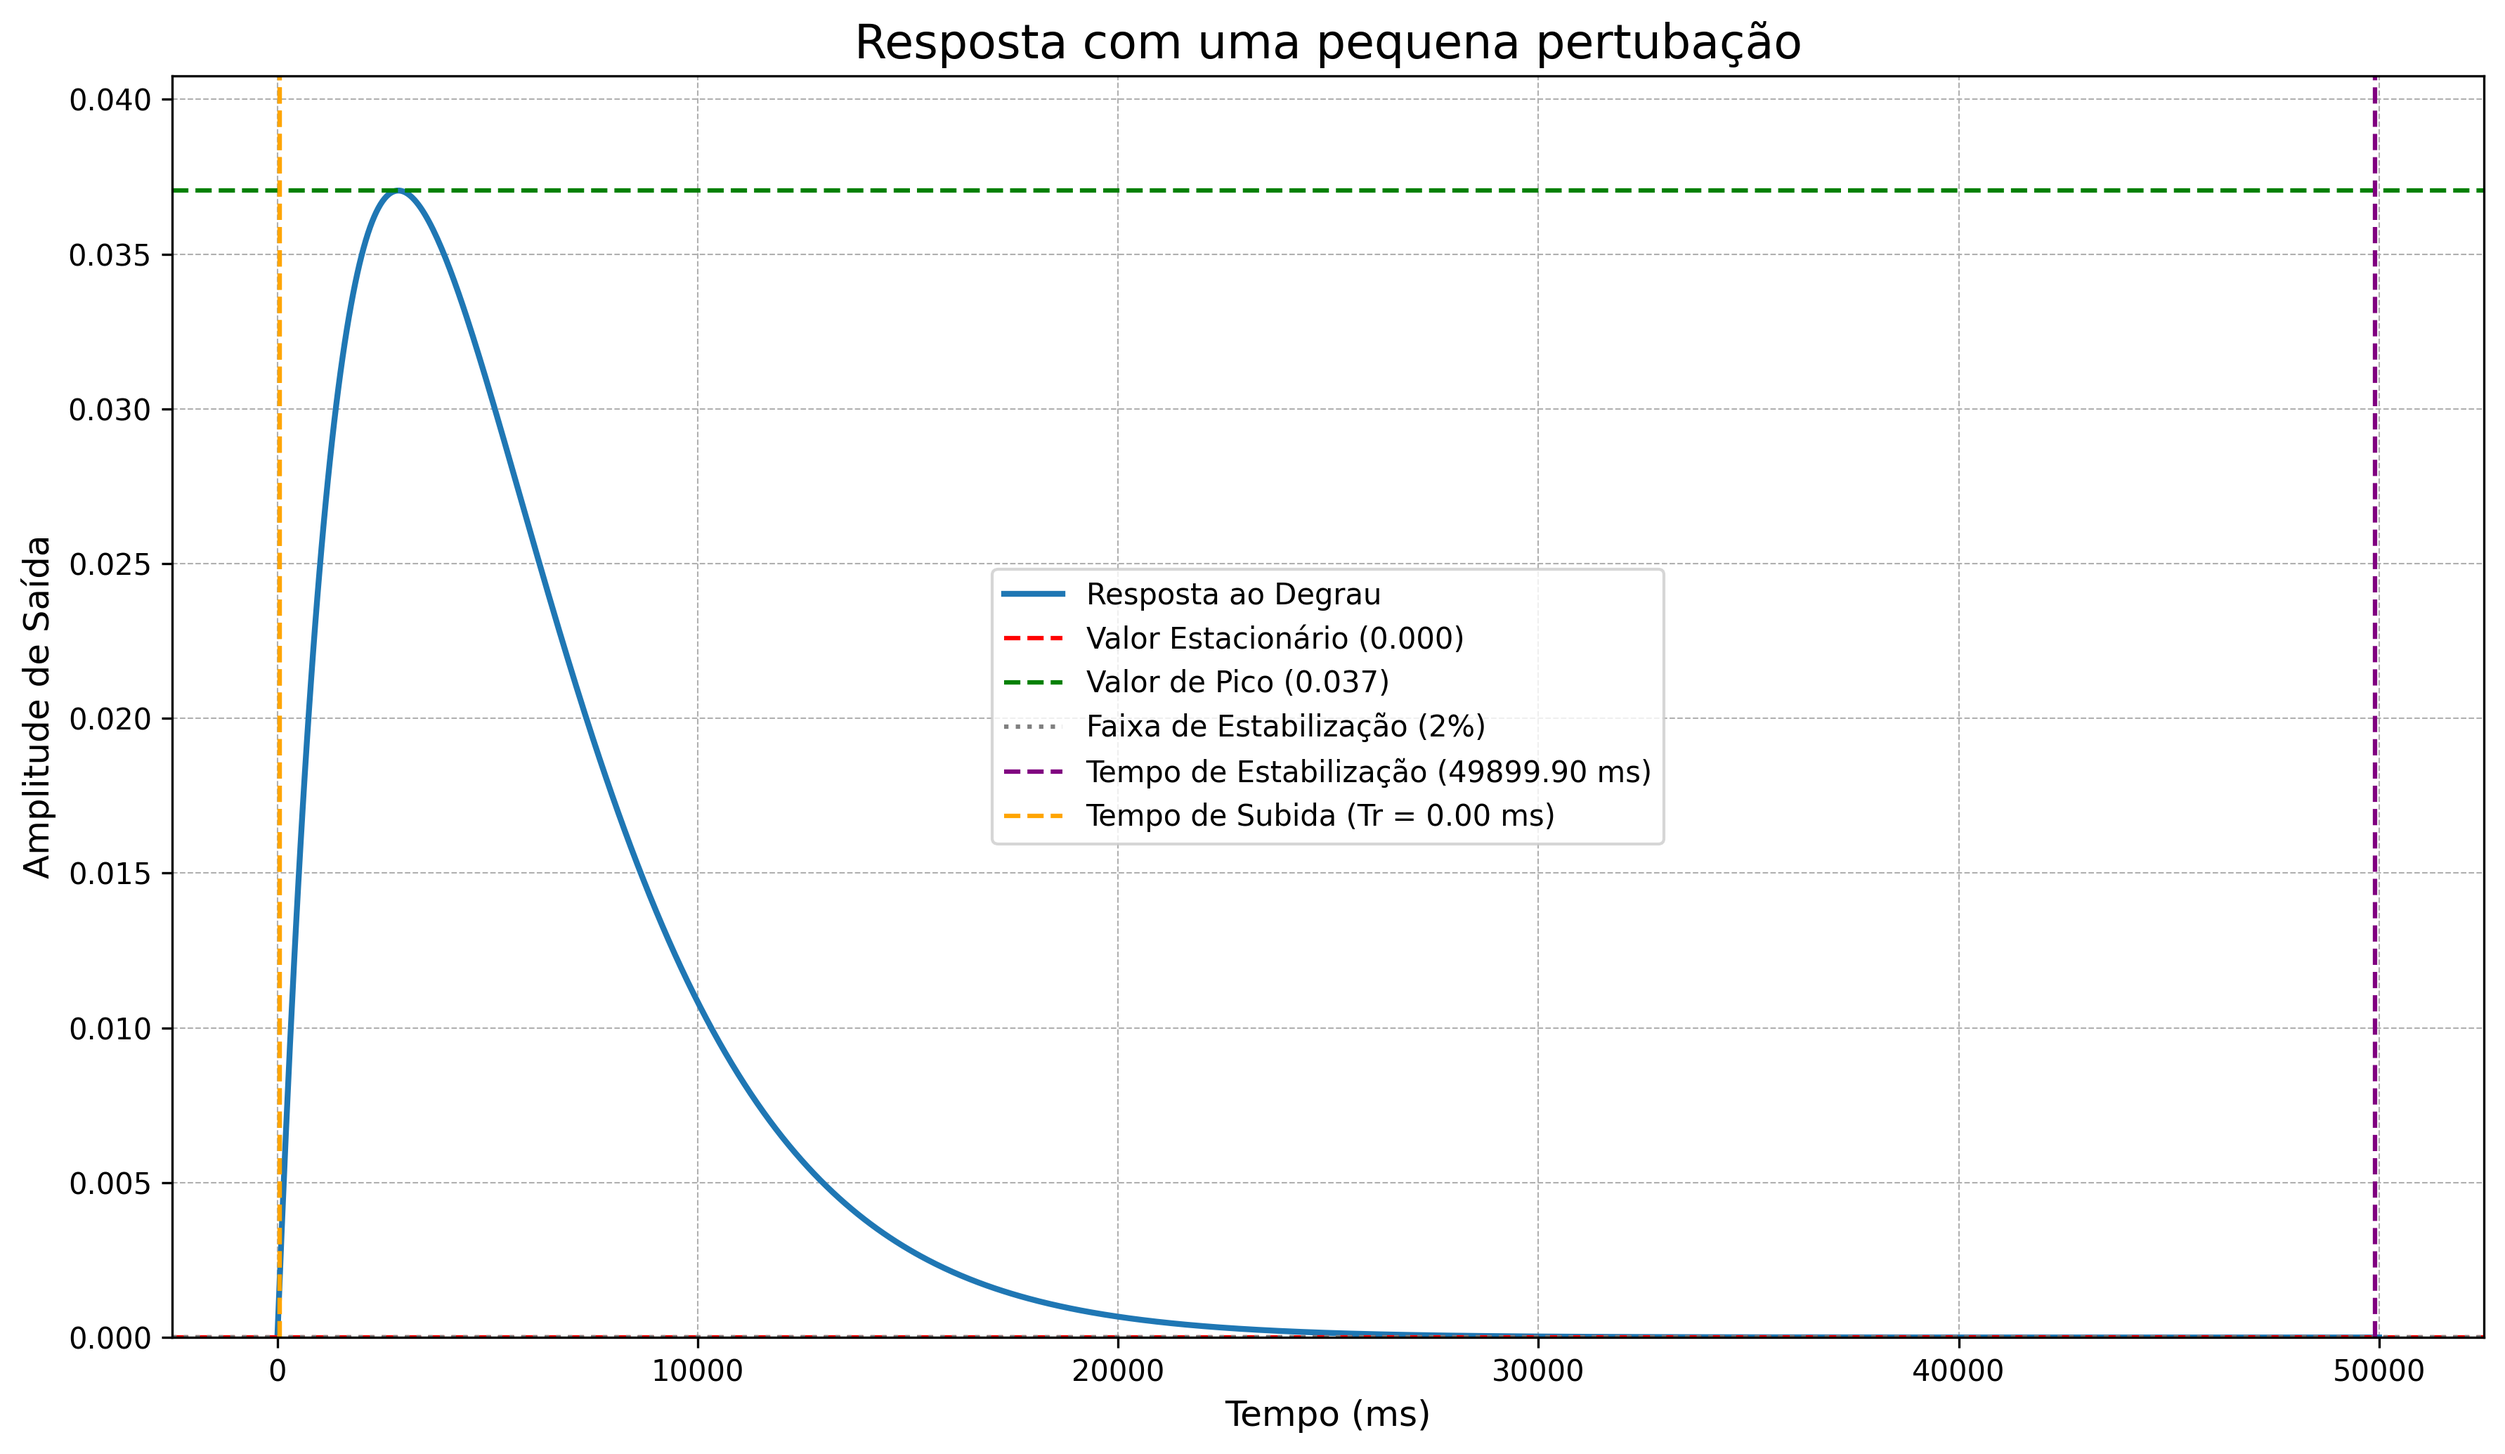
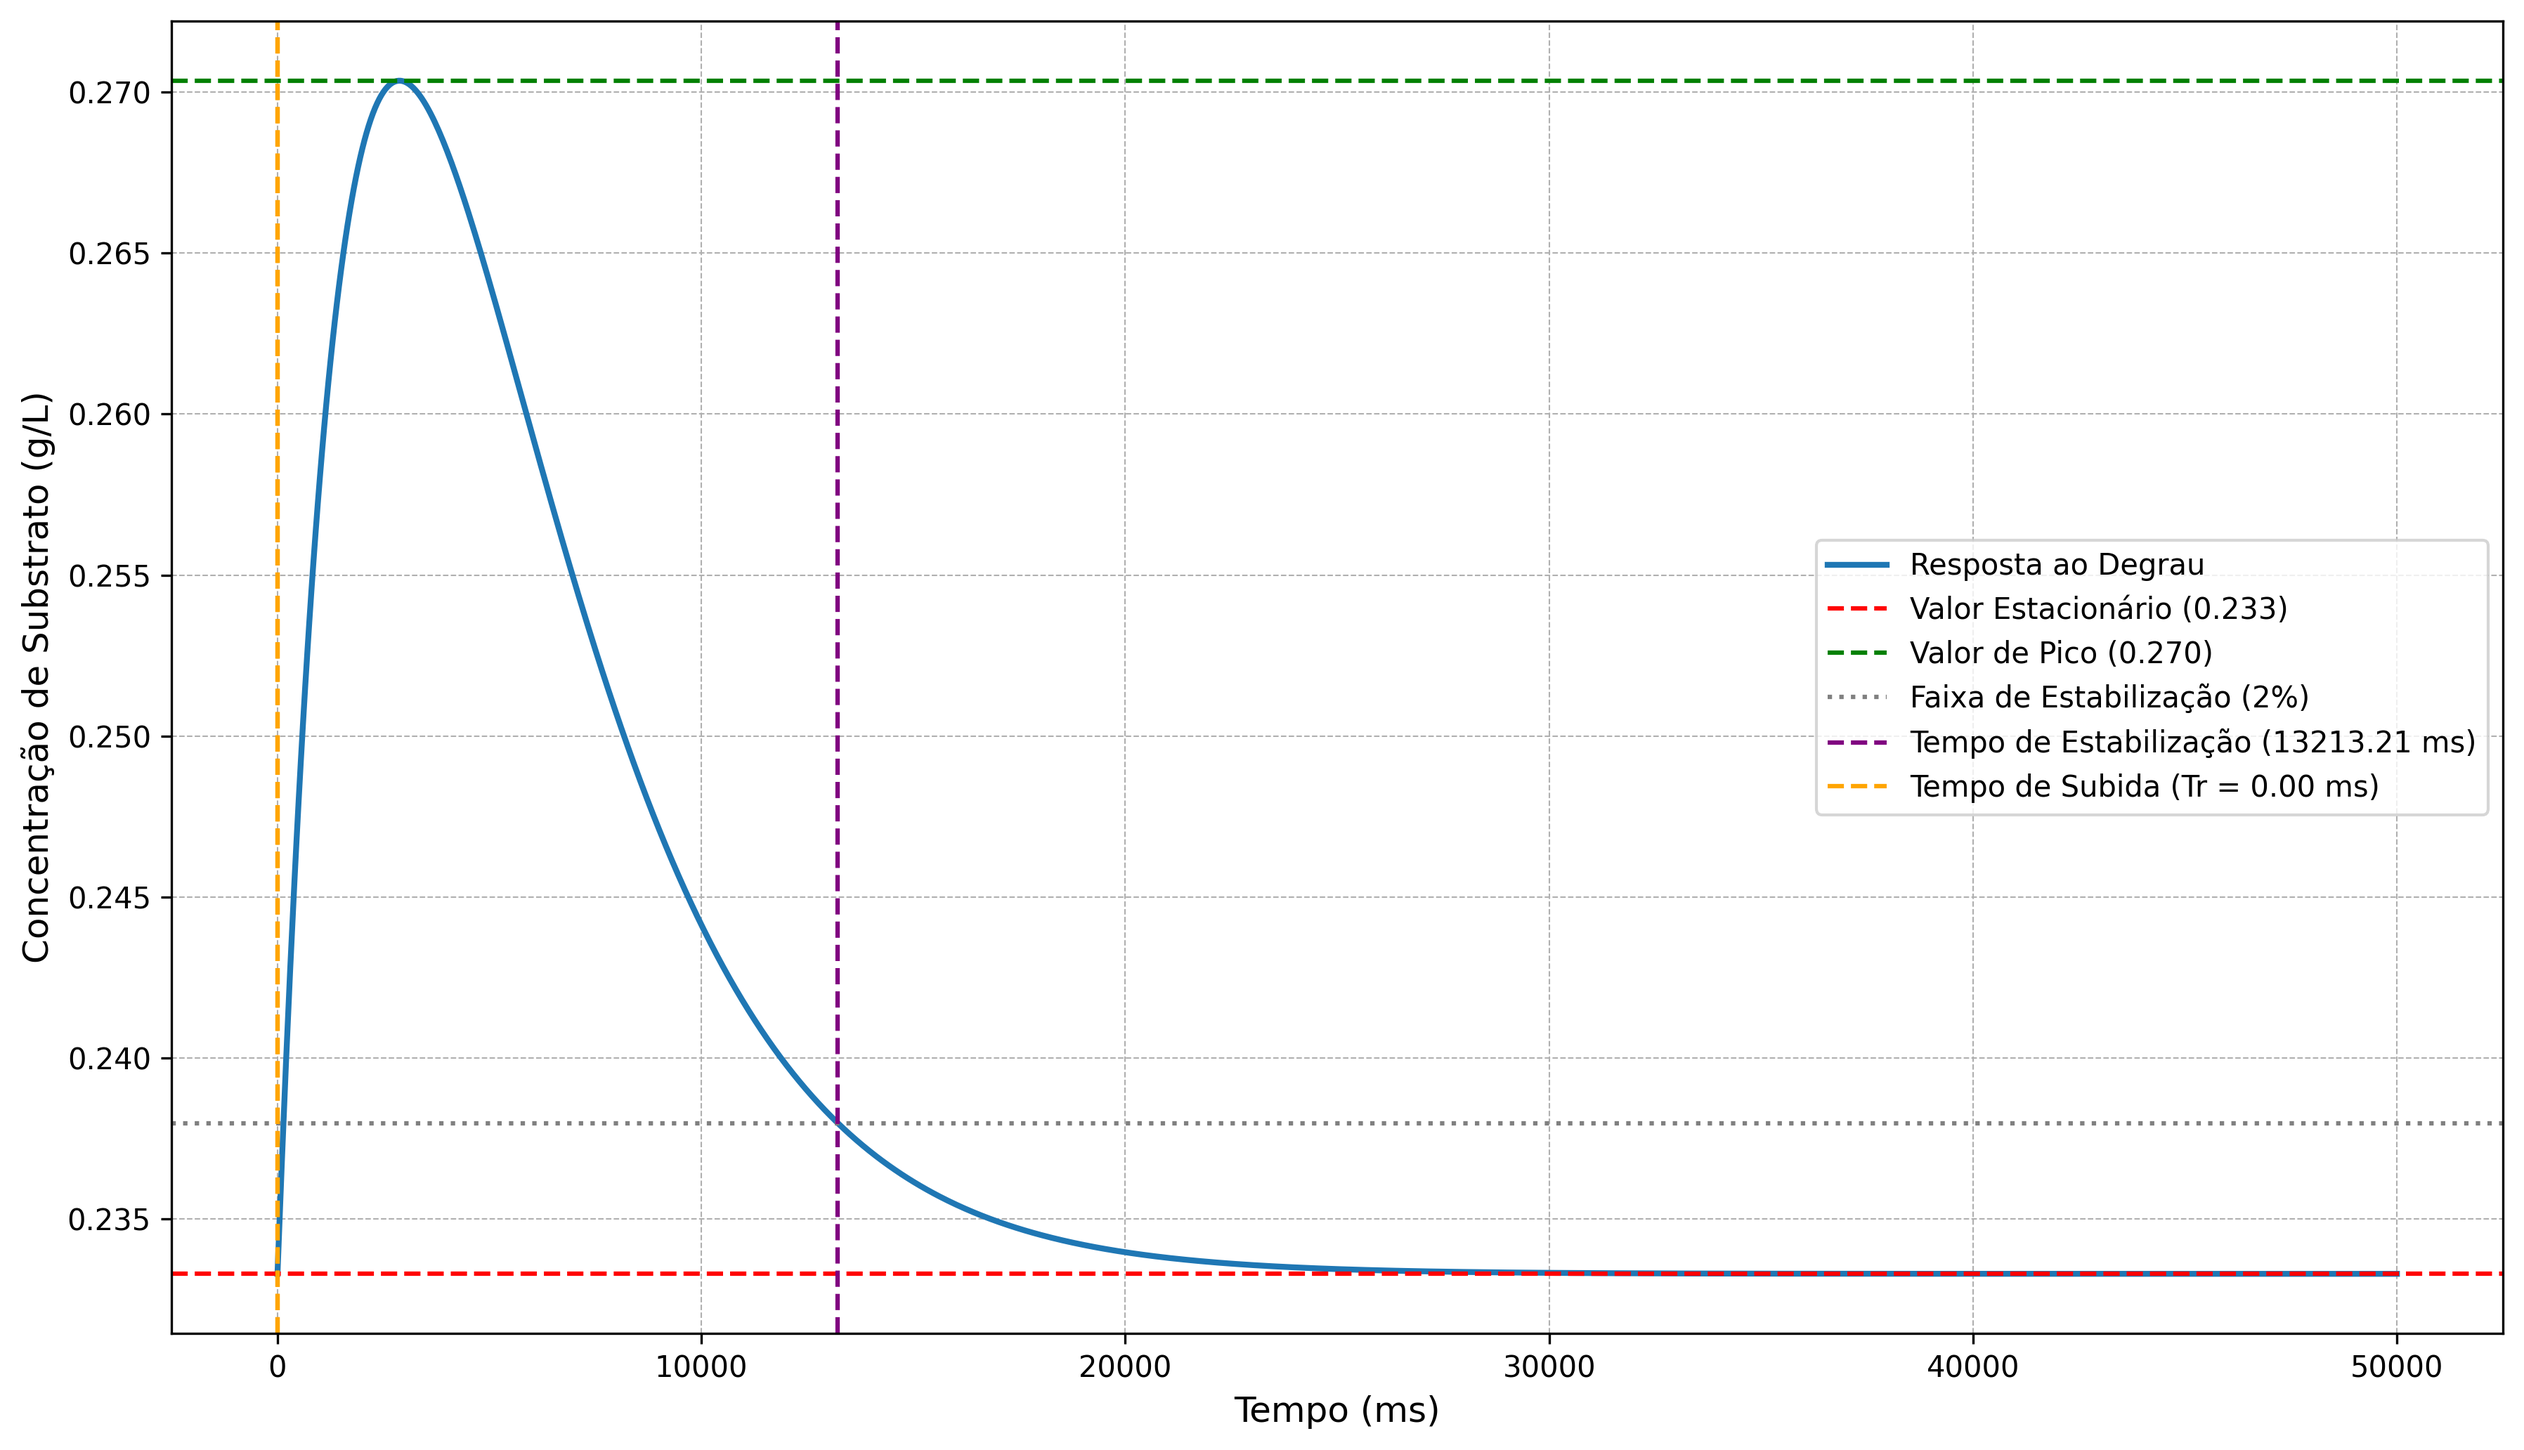
função de entrada criada,  ponto de operação adicionado, plots ajustados

diff --git a/src/analiseResposta.py b/src/analiseResposta.py
@@ -10,17 +10,39 @@ from utils.saveFig import img_save
 # numerador = [K, -K * 180e3]
 # denominador = [1, 3125, 2.25e8]
 
+def gerar_entrada(tipo="degrau", A=1.0, t_final=50, n=1000, t_troca=20):
+    t = np.linspace(0, t_final, n)
 
-def params(G:TransferFunction, label, A):
-    # Cálculo da resposta ao degrau unitário
-    t = np.linspace(0, 50, 1000)
-    # Degrau de amplitude pequena como entrada
-    # A = -0.1*0.35
-    # u = [A if tempo<=20 else -A for tempo in t] # degrau de amplitude A
-    u = np.ones_like(t) * A 
+    if tipo == "degrau":
+        u = np.ones_like(t) * A
+
+    elif tipo == "degrau_pos_neg":
+        u = np.array([A if tempo <= t_troca else -A for tempo in t])
+
+    elif tipo == "degrau_neg_pos":
+        u = np.array([-A if tempo <= t_troca else A for tempo in t])
+
+    else:
+        raise ValueError(f"Tipo de entrada inválido: {tipo}")
+
+    return t, u
+
+def params(G: TransferFunction, label, t, u):
 
     # Simulação  com lsim
-    t, y, _ = lsim(G, U=u, T=t)
+    t, y_delta, _ = lsim(G, U=u, T=t)
+
+    # Pontos de operação
+    x_op = 0.3066   # g/L
+    s_op = 0.2333   # g/L
+
+    # Converte da variação para valor físico
+    if label.startswith("G_X"):
+        y = y_delta + x_op
+    elif label.startswith("G_S"):
+        y = y_delta + s_op
+    else:
+        y = y_delta
 
     # --- Cálculo das métricas da resposta ---
 
@@ -99,17 +121,23 @@ def params(G:TransferFunction, label, A):
 
 
     # Configurações do gráfico
-    plt.title(r'Resposta com uma pequena pertubação', fontsize=16)
+    # plt.title(r'Resposta com uma pequena pertubação', fontsize=16)
     plt.xlabel('Tempo (ms)', fontsize=12)
-    plt.ylabel('Amplitude de Saída', fontsize=12)
+    if label.startswith("G_X"):
+        plt.ylabel('Concentração de Biomassa (g/L)', fontsize=12)
+    elif label.startswith("G_S"):
+        plt.ylabel('Concentração de Substrato (g/L)', fontsize=12)
+
     plt.grid(True, which='both', linestyle='--', linewidth=0.5)
     plt.legend(fontsize=10)
     plt.tight_layout()
-    # plt.ylim(-c_max * 1.1, c_max * 1.1)
-    plt.ylim(0, c_max * 1.1)
+
+    y_min = np.min(y)
+    y_max = np.max(y)
+    margem = 0.05 * (y_max - y_min if y_max != y_min else 1)
+    plt.ylim(y_min - margem, y_max + margem)
 
     # Mostra o gráfico na tela
-    # plt.show()
     img_save(f"{label}",dir_name="RespostaLinear")
 
 
@@ -117,11 +145,13 @@ def params(G:TransferFunction, label, A):
 numerador = G_X_D["num"]
 denominador = G_X_D["den"]
 G = TransferFunction(numerador, denominador)
-# params(TransferFunction(G_X_D["num"], G_X_D["den"]), label="G_X_D", A = 0.1*0.35)
-params(TransferFunction(G_X_Sf["num"], G_X_Sf["den"]), label="G_X_Sf", A = 0.1*0.35)
-params(TransferFunction(G_S_D["num"], G_S_D["den"]), label="G_S_D", A = 0.1*1)
-params(TransferFunction(G_S_Sf["num"], G_S_Sf["den"]), label="G_S_Sf", A = 0.1*1)
 
-# print("num =", G.num[-1])
-# print("den =", G.den[-1])
-# print("ganho DC =", G.num[-1] / G.den[-1])
+t, u = gerar_entrada(tipo="degrau_pos_neg", A=0.1 * 0.35, t_troca=20)
+params(TransferFunction(G_X_D["num"], G_X_D["den"]), label="G_X_D", t=t, u=u)
+
+t, u = gerar_entrada(tipo="degrau", A=0.1 * 0.35)
+params(TransferFunction(G_X_Sf["num"], G_X_Sf["den"]), label="G_X_Sf", t=t, u=u)
+
+t, u = gerar_entrada(tipo="degrau", A=0.1 * 1)
+params(TransferFunction(G_S_D["num"], G_S_D["den"]), label="G_S_D", t=t, u=u)
+params(TransferFunction(G_S_Sf["num"], G_S_Sf["den"]), label="G_S_Sf", t=t, u=u)

diff --git a/src/utils/saveFig.py b/src/utils/saveFig.py
@@ -3,7 +3,7 @@ import matplotlib.pyplot as plt
 from pathlib import Path
 
 
-def img_save(file_name, dir_name, dpi = 300, show: bool = True):
+def img_save(file_name, dir_name, dpi = 300, show: bool = False):
     folder = imgs / dir_name
     folder.mkdir(parents=True, exist_ok=True)
 
